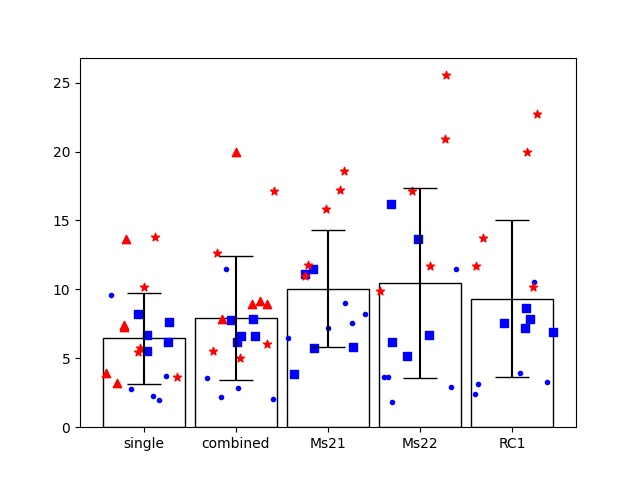
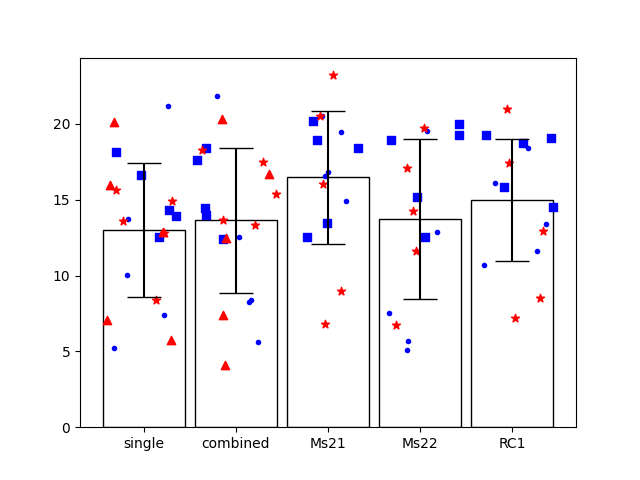
DLC update

diff --git a/DeepLabCut/DLC_jump_analysis/all_trackers/jump_analysis.py b/DeepLabCut/DLC_jump_analysis/all_trackers/jump_analysis.py
@@ -37,17 +37,20 @@ def main(full_path, relative_path, fname1, fname2):
     Ms21_values = dataframes_list[1]
     Ms22_values = dataframes_list[2]
     RC1_values = dataframes_list[3]
-    single_values = dataframes_list[4]
+    Rear5_values = dataframes_list[4]
+    single_values = dataframes_list[5]
 
     #Order of single trackers: Ms21, Ms22, RC1, Rear5
     #Naming convention: Ms21 = Rat1, Ms22 = Rat2, RC1 = Rat3, Rear5 = Rat4
   
 
     w = .9 # bar width
-    x1 = [1, 2, 3, 4, 5]
+    x1 = [1, 2]
+    x2 = [1, 2, 3, 4]
     colors1 = ['red','blue', 'green', 'purple', 'orange']
     colors2 = ['red', 'blue']
-    y1 = single_values, combined_values, Ms21_values, Ms22_values, RC1_values
+    y1 = single_values, combined_values
+    y2 = Ms21_values, Ms22_values, RC1_values, Rear5_values 
     #y5 = single_trackers_df, combined_new_df_values, avg_new_df_values
 
     #AVG THE VALUES FROM 3 SINGLE TRACKERS
@@ -57,7 +60,8 @@ def main(full_path, relative_path, fname1, fname2):
     #print(avg_all_trackers)
     #y4 = avg_all_trackers
     
-    labels = ['single', 'combined', 'Ms21', 'Ms22', 'RC1']
+    labels1 = ['single', 'combined']
+    labels2 = ['Ms21', 'Ms22', 'RC1', 'Rear5']
 
     # for i in range(len(x1)):
     #     a = y1[i]  
@@ -71,10 +75,10 @@ def main(full_path, relative_path, fname1, fname2):
            yerr=[np.std(yi) for yi in y1],    # error bars
            capsize=12, # error bar cap width in points
            width=w,    # bar width
-           tick_label=labels,
+           tick_label=labels1,
            color=(0,0,0,0),  # face color transparent
            edgecolor=['black'],
-            )
+        )
     height=[np.mean(yi) for yi in y1]
     print(height)
 
@@ -98,29 +102,36 @@ def main(full_path, relative_path, fname1, fname2):
     plt.close()
 
 
-    # figure2 = plt.figure(2)
-    # plt.bar(x2,
-    #        height=[np.mean(yi) for yi in y2],
-    #        yerr=[np.std(yi) for yi in y2],    # error bars
-    #        capsize=12, # error bar cap width in points
-    #        width=w,    # bar width
-    #        tick_label=['Ms22', 'RC1', 'Rear5'],
-    #        color=(0,0,0,0),  # face color transparent
-    #        edgecolor=['black'],
-    #      )
+    figure2 = plt.figure(2)
+    plt.bar(x2,
+           height=[np.mean(yi) for yi in y2],
+           yerr=[np.std(yi) for yi in y2],    # error bars
+           capsize=12, # error bar cap width in points
+           width=w,    # bar width
+           tick_label=labels2,
+           color=(0,0,0,0),  # face color transparent
+           edgecolor=['black'],
+         )
     
 
-    # for i in range(len(x2)):
-    #     #distribute scatter randomly across whole width of bar
-    #     b = y2[i]
-    #     #print(y)
-    #     plt.scatter(x2[i] + np.random.random(b[0:5].size) * w - w / 2, b[0:5], color=colors2[1], marker='.') #circle marker = Ms22
-    #     plt.scatter(x2[i] + np.random.random(b[5:10].size) * w - w / 2, b[5:10], color=colors2[0], marker = "s") #square marker = RC1
+    #csv order for ind trackers:
+    #Ms21: Ms22, RC1, Rear5
+    #Ms22: Ms21, RC1, Rear5
+    #RC1: Ms21, Ms22, Rear5
+    #Rear5: Ms21, Ms22, RC1
+
+    for i in range(len(x2)):
+        #distribute scatter randomly across whole width of bar
+        b = y2[i]
+        #print(y)
+        plt.scatter(x2[i] + np.random.random(b[0:5].size) * w - w / 2, b[0:5], color=colors2[1], marker='.') #circle marker = Ms22
+        plt.scatter(x2[i] + np.random.random(b[5:10].size) * w - w / 2, b[5:10], color=colors2[0], marker = "s") #square marker = RC1
+        plt.scatter(x2[i] + np.random.random(b[5:10].size) * w - w / 2, b[10:15], color=colors2[0], marker = "^") #square marker = RC1
 
   
-    # plt.savefig(fname2, dpi=100)
-    # plt.show()
-    # plt.close()
+    plt.savefig(fname2, dpi=100)
+    plt.show()
+    plt.close()
 
     
     
@@ -199,4 +210,4 @@ def main(full_path, relative_path, fname1, fname2):
     # plt.show()
 
 
-main(full_path_directory, rump_directory, "nose_results_1.png", "nose_results_2.png")#, "nose_results_2.png")
+main(full_path_directory, nose_directory, "nose-results_single_combined.png", "nose-results_ind.png")#, "nose_results_2.png")
